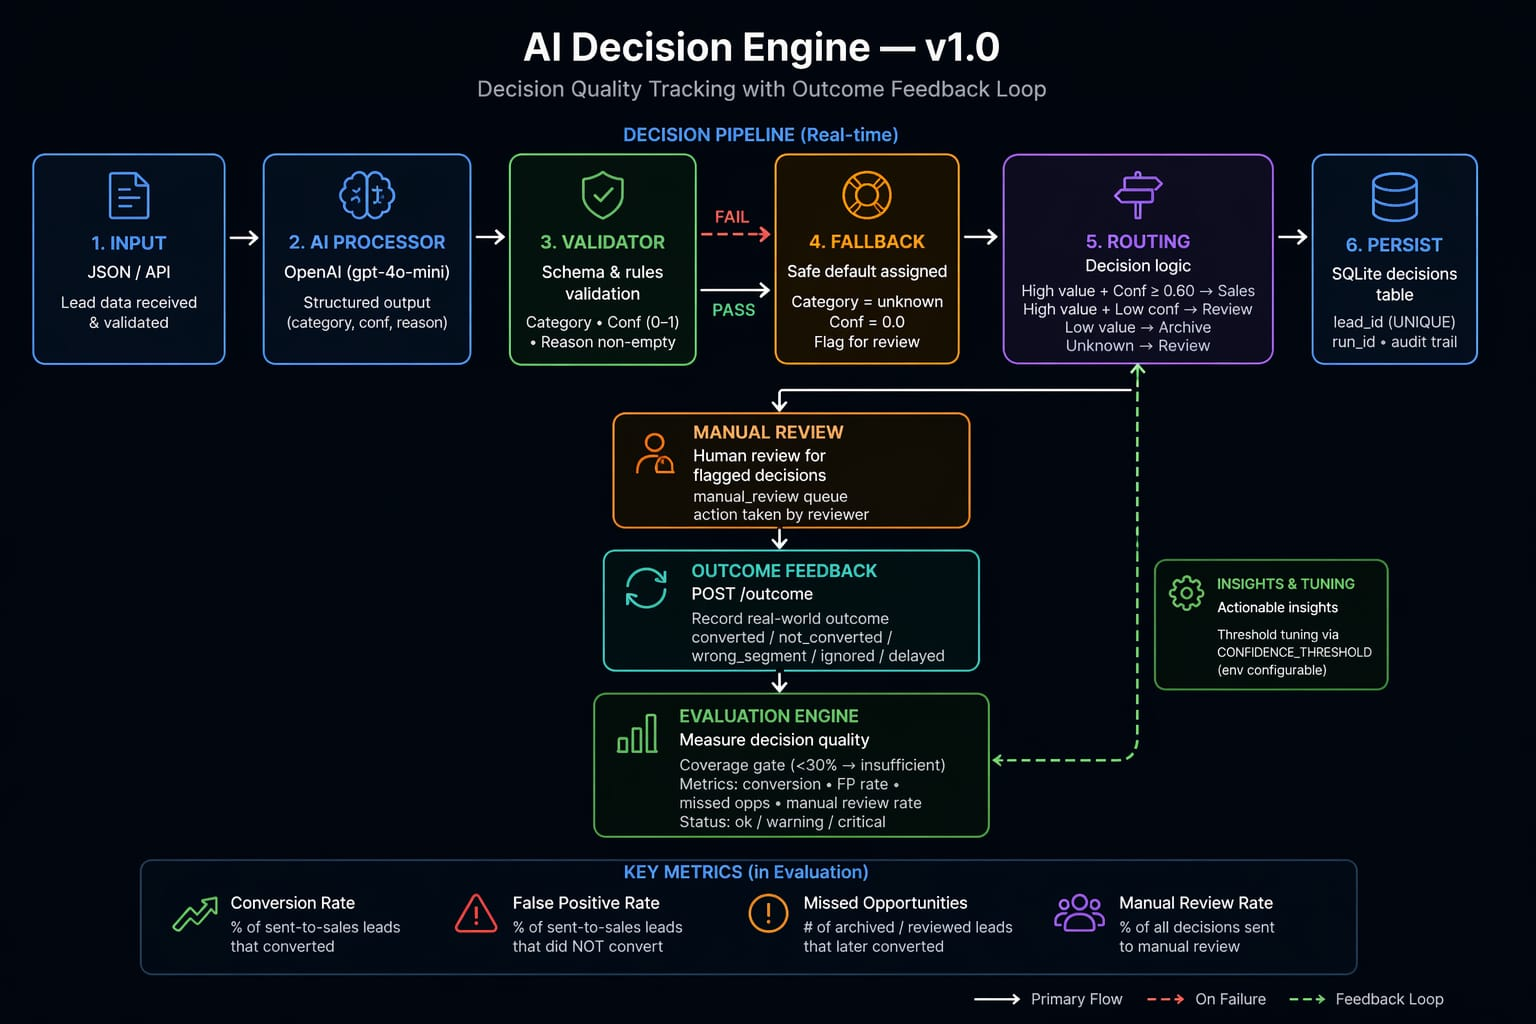
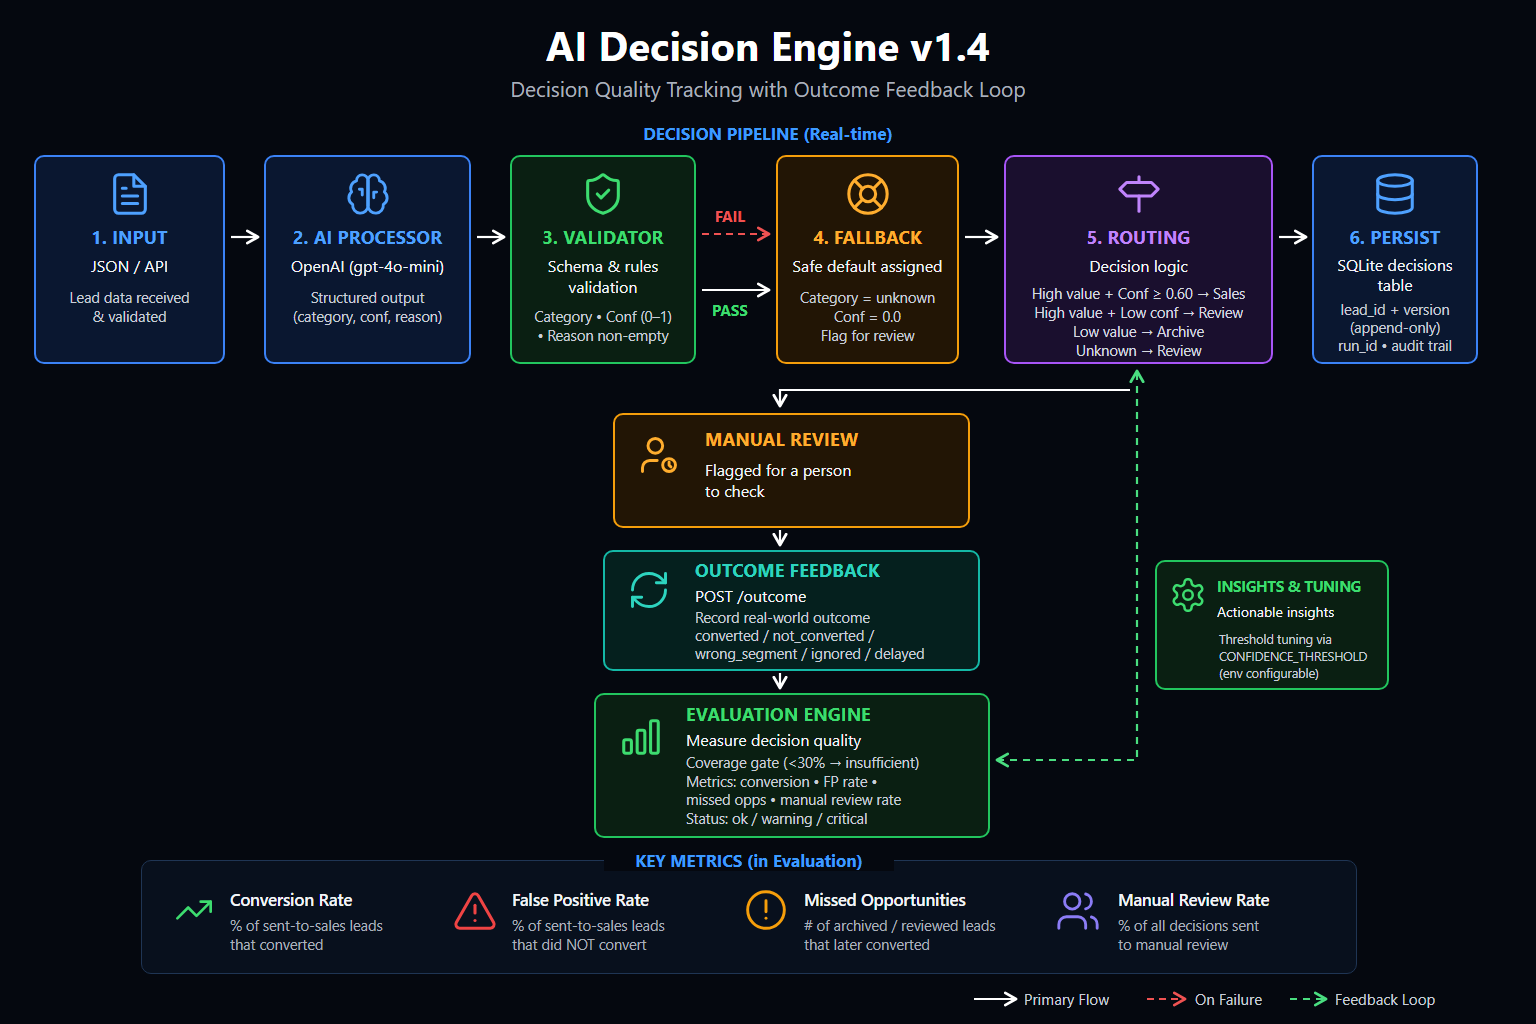
Check README outcome figures in CI and redraw the cover
tests/test_ci.py gains one test that runs the keyless pipeline and
seeding, then checks the evaluator figures the README publishes: 68%
conversion, 32% false positive rate, 4 missed opportunities and status
warning. No existing check or threshold changes.

architecture.png is redrawn with the same layout. The title reads v1.4
without the dash. The PERSIST box shows lead_id + version
(append-only), as decisions have been versioned since v1.2. The MANUAL
REVIEW box no longer names a queue or reviewer step that the code does
not have.

STATE.md gains one history line for this change.

diff --git a/tests/test_ci.py b/tests/test_ci.py
@@ -9,7 +9,12 @@ lines are pure functions of the frozen 50-record sample input, the
 hardcoded simulated-output dict, and fixed thresholds; none reads the
 clock. Insert-counts on seeding are re-run-variant ("32 inserted" vs
 "32 already recorded"), so only the invariant coverage line is frozen.
+
+The evaluation test then reads the evaluator's metrics as JSON from one
+marked stdout line and checks the README Outcome figures: conversion
+rate, false positive rate, missed opportunities and status.
 """
+import json
 import os
 import subprocess
 import sys
@@ -33,6 +38,23 @@ FROZEN_PIPELINE = [
 FROZEN_SEED = [
     "Coverage: 32/50 = 64%",
 ]
+# README Outcome figures (published before this check was added):
+# 68% conversion, 32% false positive rate, 4 missed opportunities,
+# evaluator status `warning`.
+FROZEN_EVALUATION = {
+    "conversion_rate": 0.68,
+    "false_positive_rate": 0.32,
+    "missed_opportunities": 4,
+    "status": "warning",
+}
+EVAL_MARKER = "EVAL_JSON "
+EVAL_SNIPPET = (
+    "import json\n"
+    "from pipeline.evaluator import compute_metrics\n"
+    "r = compute_metrics()\n"
+    "print(" + repr(EVAL_MARKER) + " + json.dumps("
+    "dict(r['metrics'], status=r['insights']['status'])))\n"
+)
 
 
 def _run(args):
@@ -55,3 +77,18 @@ def test_seed_outcomes_coverage():
     assert r.returncode == 0, f"exit {r.returncode}\n{r.stdout}\n{r.stderr}"
     for frozen in FROZEN_SEED:
         assert frozen in r.stdout, f"missing frozen line: {frozen!r}"
+
+
+def test_evaluation_headline_metrics():
+    # Self-contained: re-running the pipeline adds a new decision version
+    # per lead (latest version counts) and seeding skips recorded leads.
+    for args in (["main.py"], ["data/seed_outcomes.py"]):
+        r = _run(args)
+        assert r.returncode == 0, f"exit {r.returncode}\n{r.stdout}\n{r.stderr}"
+    r = _run(["-c", EVAL_SNIPPET])
+    assert r.returncode == 0, f"exit {r.returncode}\n{r.stdout}\n{r.stderr}"
+    lines = [l for l in r.stdout.splitlines() if l.startswith(EVAL_MARKER)]
+    assert len(lines) == 1, f"expected one {EVAL_MARKER!r} line\n{r.stdout}"
+    got = json.loads(lines[0][len(EVAL_MARKER):])
+    for key, expected in FROZEN_EVALUATION.items():
+        assert got[key] == expected, f"{key}: got {got[key]!r}, expected {expected!r}"

diff --git a/STATE.md b/STATE.md
@@ -33,6 +33,7 @@ No `## Status` heading exists in this README (unlike ai-reliability-engine/ai-im
 - **2026-09-15** (`c83dc28`) — Canonical AGENTS.md router adopted.
 - **2026-09-19** (this commit) — STATE.md added (this file); validator gains a STATE.md-existence check, the obsolete 5-record decision cap is removed, and the six-name BANNED_WITHOUT_TRIGGER list is propagated (live-file precondition checked, clear).
 - **2026-10-07** — Exact dependency pins: the six direct dependencies in `requirements.txt` changed from `>=` floors to `==` pins at the versions CI already installed on every OS and Python leg (pydantic 2.13.5, python-dotenv 1.2.4, fastapi 0.142.2, uvicorn[standard] 0.54.0, openai 3.26.0, httpx 0.28.1). No version changed what CI runs; transitive dependencies are not pinned.
+- **2026-10-29**: README Outcome figures now checked in CI. `tests/test_ci.py` gains `test_evaluation_headline_metrics`, which asserts 68% conversion, 32% false positive rate, 4 missed opportunities and evaluator status `warning` (the figures the README already published; no existing check or threshold changed). Cover `architecture.png` redrawn: title v1.4 without the dash, PERSIST box shows `lead_id + version` (append-only) instead of `lead_id (UNIQUE)`, and the MANUAL REVIEW box no longer names a review queue or reviewer step that the code does not have.
 
 ## Open loops
 
